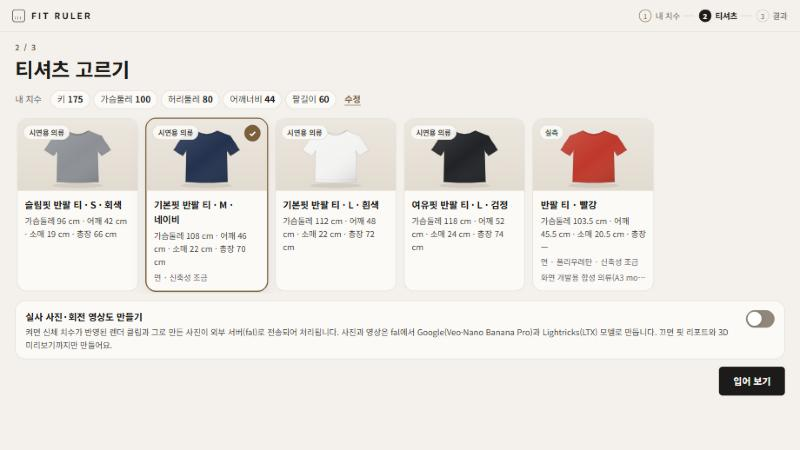
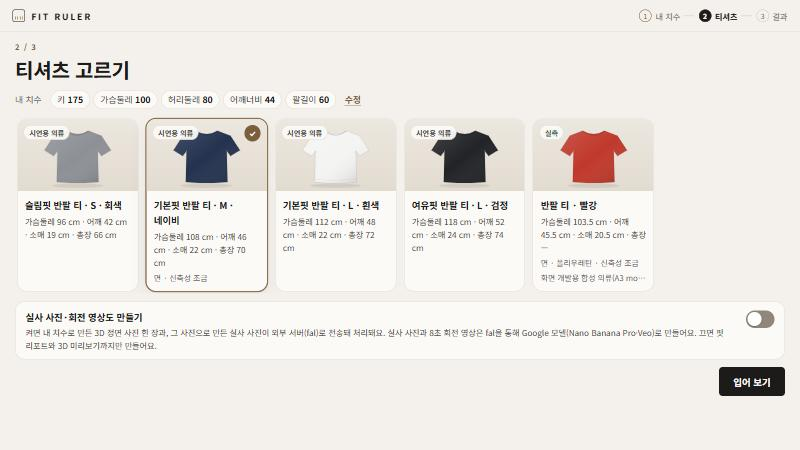
#9 화면 v3: 실사화 동의 문구를 지금 실사화 흐름(피팅룸)에 맞춤
- 보내는 것: "렌더 클립과 그로 만든 사진" → "내 치수로 만든 3D 정면 사진 한 장과 그 사진으로 만든 실사 사진"
  (피팅룸 어댑터는 렌더 영상의 첫 장면 한 장과 그걸로 만든 사진들만 fal에 올린다)
- 모델: Lightricks(LTX)를 빼고 "fal을 통해 Google 모델(Nano Banana Pro·Veo)"로(피팅룸 흐름은 LTX를 쓰지 않는다)
- 말투를 해요체로 맞춤. 스위치 이름과 "끄면 핏 리포트와 3D 미리보기까지만" 문장은 그대로
- 코드 주석·docs/ux/wireframes.md 규칙 2와 그림의 문구도 같은 뜻으로, 화면 사진 2 다시 찍음
- 예전 실사화 설정(visual_real, D4 LTX)으로 돌리면 렌더 영상이 LTX로 가므로 그때는 문구를 다시 맞춰야 한다

diff --git a/web/src/pages/GarmentSelectPage.tsx b/web/src/pages/GarmentSelectPage.tsx
@@ -50,7 +50,8 @@ export function GarmentSelectPage() {
   const [garments, setGarments] = useState<GarmentListItem[] | null>(null);
   const [loadError, setLoadError] = useState<string | null>(null);
   const [selectedId, setSelectedId] = useState<string | null>(null);
-  // 실사화는 렌더 클립을 외부 서버로 보내므로 동의해야 한다. 기본은 꺼짐(wireframes.md 규칙 2).
+  // 실사화는 3D 정면 사진(렌더 첫 장면)과 그걸로 만든 실사 사진을 외부 서버(fal)로 보내므로 동의해야
+  // 한다. 기본은 꺼짐(wireframes.md 규칙 2).
   const [consent, setConsent] = useState(false);
   const [submitting, setSubmitting] = useState(false);
   const [submitError, setSubmitError] = useState<string[] | null>(null);
@@ -176,9 +177,9 @@ export function GarmentSelectPage() {
             <span className="consent-text">
               <strong id="consent-title">실사 사진·회전 영상도 만들기</strong>
               <span id="consent-desc">
-                켜면 신체 치수가 반영된 렌더 클립과 그로 만든 사진이 외부 서버(fal)로 전송되어 처리됩니다. 사진과 영상은
-                fal에서 Google(Veo·Nano Banana Pro)과 Lightricks(LTX) 모델로 만듭니다. 끄면 핏 리포트와 3D 미리보기까지만
-                만들어요.
+                켜면 내 치수로 만든 3D 정면 사진 한 장과, 그 사진으로 만든 실사 사진이 외부 서버(fal)로 전송돼
+                처리돼요. 실사 사진과 8초 회전 영상은 fal을 통해 Google 모델(Nano Banana Pro·Veo)로 만들어요. 끄면 핏
+                리포트와 3D 미리보기까지만 만들어요.
               </span>
             </span>
             <input

diff --git a/docs/ux/wireframes.md b/docs/ux/wireframes.md
@@ -22,7 +22,7 @@ flowchart LR
 흐름에서 지키는 규칙은 세 가지다.
 
 1. 핏 리포트는 3D 착장이나 실사화를 기다리지 않고 결과 화면에 바로 나온다(활동지 1-1).
-2. 실사화는 렌더 클립이 외부 서버(fal)로 전송된다는 안내를 읽고 동의한 경우에만 한다.
+2. 실사화는 3D 정면 사진(렌더 첫 장면)과 그걸로 만든 실사 사진이 외부 서버(fal)로 전송된다는 안내를 읽고 동의한 경우에만 한다.
 3. 어느 단계가 실패해도 핏 리포트는 그대로 보인다. 3D 미리보기를 대신 보여 줄 때는 '대체 결과'라고 표시하고 실사화 성공으로 다루지 않는다(#12).
 
 ## 2. 화면별 와이어프레임
@@ -64,9 +64,9 @@ Fit Ruler                              ①입력 > ②선택 > ③결과
 (•) ■ 오버핏 반팔 티    검정 · 면 혼방    가슴단면 58 · 총장 74 · 어깨 52
 ( ) ■ 슬림 반팔 티      회색 · 면 스판    가슴단면 48 · 총장 66 · 어깨 43
 
-[ ] 실사 착장 영상도 만들기
-    신체 치수가 반영된 렌더 클립이 외부 서버(fal)로 전송되어 처리됩니다.
-    체크하지 않으면 핏 리포트와 3D 미리보기까지만 만듭니다.
+[ ] 실사 사진·회전 영상도 만들기
+    내 치수로 만든 3D 정면 사진과 그 사진으로 만든 실사 사진이 외부 서버(fal)로 전송돼 처리돼요.
+    끄면 핏 리포트와 3D 미리보기까지만 만들어요.
 
                                                     [ 핏 보기 ]
 ```
